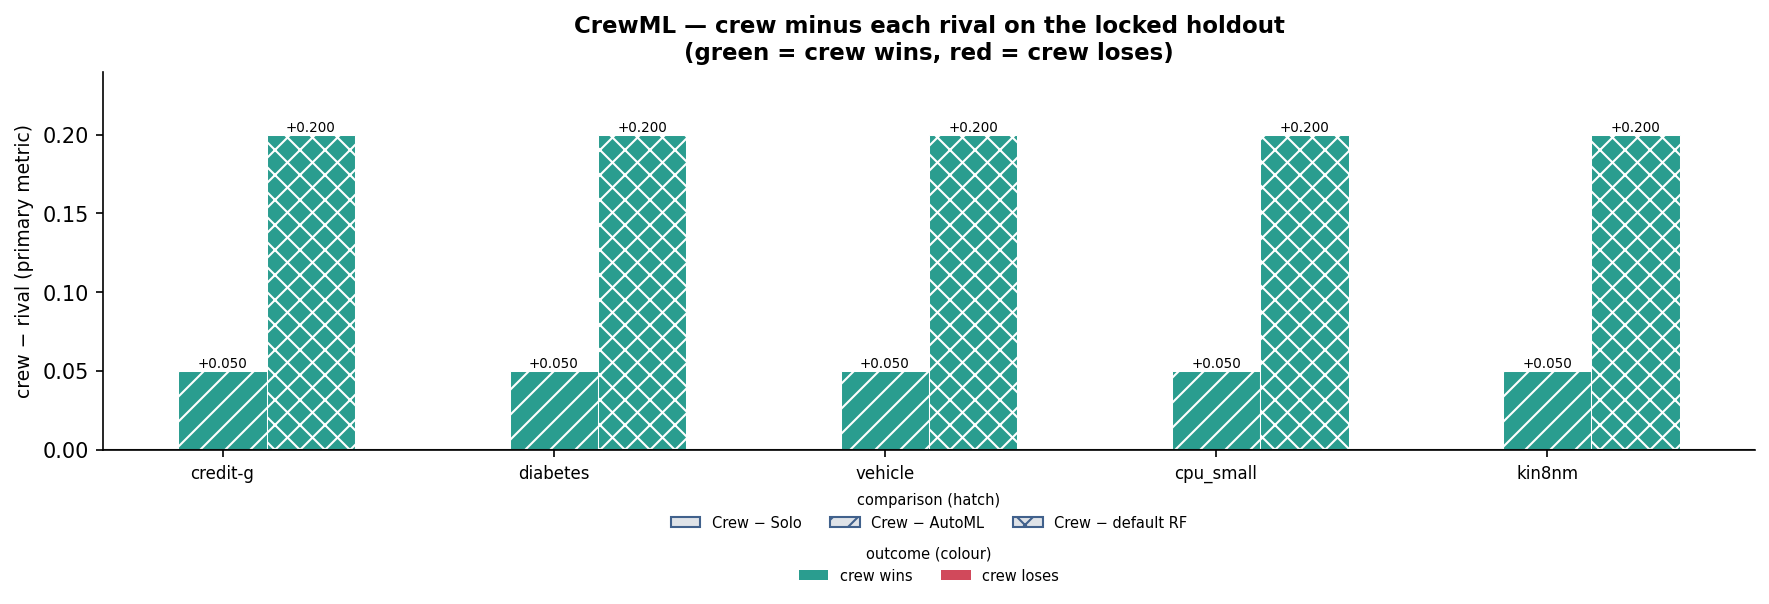
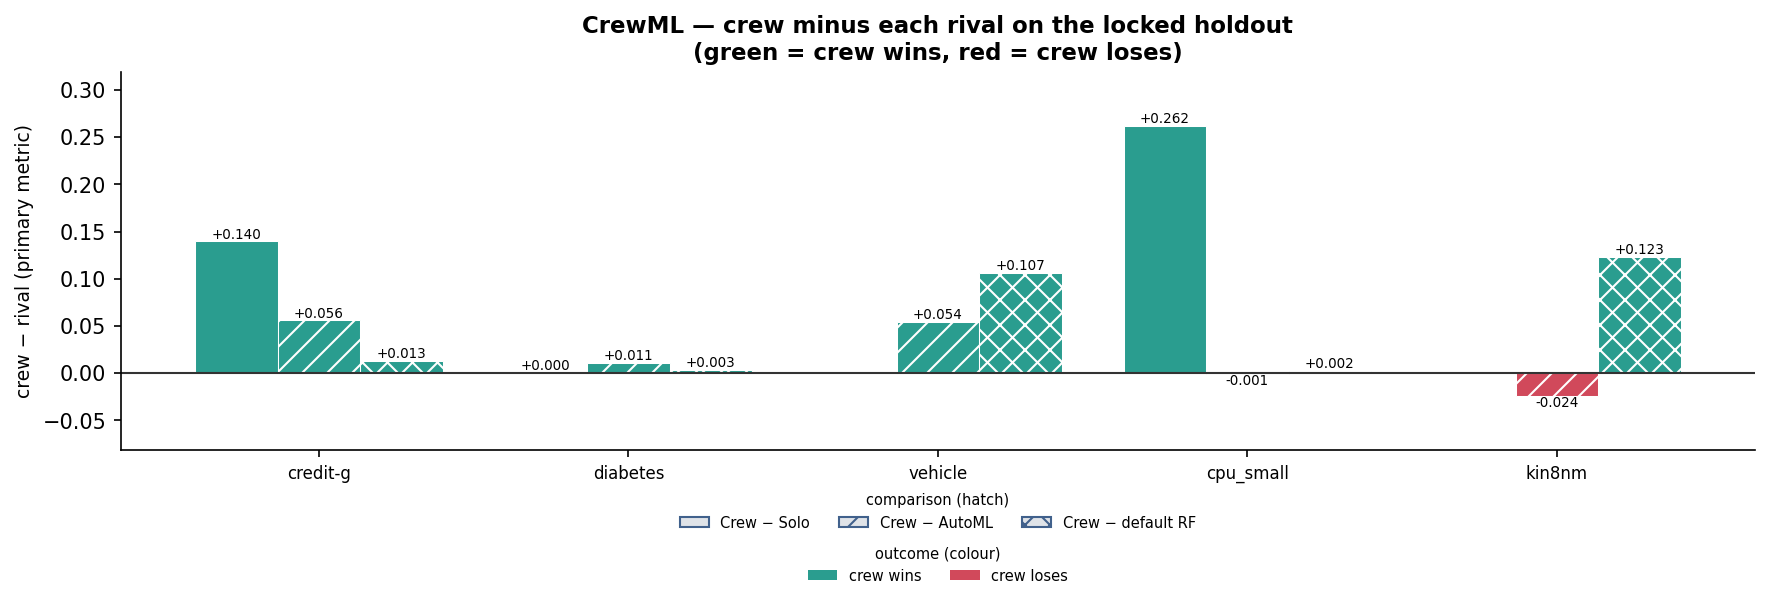
fix: sprint audit of Days 1-20 — two blocking honesty defects in committed artifacts
Audited the whole sprint so far against the day plan (7 lenses x 3-vote adversarial
verification): 51 candidate gaps raised, 12 confirmed, 39 refuted. Two were blocking,
and both were committed artifacts contradicting the numbers they claimed to show.

BLOCKING 1 — the committed Day-12 charts were TEST-FIXTURE OUTPUT, not the real board.
tests/test_comparison.py::test_charts_render_from_a_board_without_a_display accepted
tmp_path but never used it: it called render_all(table), which defaults to
results/charts/day12_*.png. Every test run therefore overwrote the committed figures
with fixture numbers -- a flat 0.500/0.700/0.850/0.900 across all five panels, no
solo-agent bar, and BOTH AutoML losses painted green -- and those fixture bytes are
what shipped in 57d0daa. PR #4 says of the kin8nm loss "a real loss, kept in the table
and red on the chart", and the chart's own legend defines red = crew loses.
Fixed: render_all takes an out_dir; the test renders into tmp_path and asserts it never
writes to results/charts/; both figures regenerated from results/comparison_table.json.
cpu_small (-0.001) and kin8nm (-0.024) now render red and the Crew-Solo series appears.

BLOCKING 2 — results/day20_self_repair.md still said "2/2 = 100%" (the pass-2-only
table) while the JSON, chart and report all said 18/18, and the report pointed readers
at that file. Cause: --table-only re-rendered the chart and printed the table but never
[…]

diff --git a/scripts/merge_self_repair_passes.py b/scripts/merge_self_repair_passes.py
@@ -1,0 +1,148 @@
+"""Merge two self-repair study passes into one board — only if they are comparable.
+
+    python scripts/merge_self_repair_passes.py BASE.json ADDITION.json [--out PATH]
+
+Day 20 measured its 9 fault families in two live passes: the eight invented faults
+first, then ``non_finite`` once Groq's daily token budget reset. Combining two runs
+into one headline is exactly the kind of step that quietly launders an incomparable
+number, so this script refuses unless the passes agree on everything that could move
+a score, and it recomputes every summary field from the merged ``runs`` array rather
+than trusting either input's totals.
+
+What it asserts before merging:
+
+* same ``repairer`` mode, ``provider`` and ``model``
+* same ``max_attempts`` budget
+* **bit-identical clean-control scores** per shared dataset — the strongest available
+  evidence that seeds, splits and the deterministic core did not drift between passes
+
+What it deliberately does NOT claim: that both passes ran identical *code*. Day 20's
+pass 1 predates commit ``e6685e7`` (which tightened the repair acceptance gate), so
+``code_note`` records that skew in the output instead of papering over it. A
+reproducibility-grade merge would re-run every pass under one commit; this records
+what actually happened.
+
+Only controls are deduplicated — injected runs from the addition are appended, so
+merging a pass that re-measures an existing fault would produce duplicate rows on
+purpose, and the operator has to notice.
+"""
+from __future__ import annotations
+
+import argparse
+import json
+import sys
+from pathlib import Path
+
+sys.path.insert(0, str(Path(__file__).resolve().parent.parent))
+
+from crewml.self_repair_study import NON_RESTORABLE_FAULTS, SELF_REPAIR_RESULT_PATH
+
+
+def assert_comparable(base: dict, add: dict) -> None:
+    """Refuse to merge passes that could differ in anything score-bearing."""
+    for field in ("repairer", "provider", "model", "max_attempts"):
+        if base.get(field) != add.get(field):
+            raise SystemExit(
+                f"refusing to merge: {field} differs "
+                f"({base.get(field)!r} vs {add.get(field)!r})"
+            )
+    shared = set(base.get("clean_scores", {})) & set(add.get("clean_scores", {}))
+    if not shared:
+        raise SystemExit("refusing to merge: no shared dataset to compare controls on")
+    for ds in sorted(shared):
+        b, a = base["clean_scores"][ds], add["clean_scores"][ds]
+        if b != a:
+            raise SystemExit(
+                f"refusing to merge: clean-control score for {ds} differs "
+                f"({b} vs {a}) — the passes are not comparable"
+            )
+    print(f"[merge] comparability OK; controls identical on {sorted(shared)}")
+
+
+def merge(base: dict, add: dict, *, code_note: str | None = None) -> dict:
+    assert_comparable(base, add)
+
+    added = [r for r in add["runs"] if r["fault"] != "none_control"]
+    merged = base["runs"] + added
+    out = dict(base)
+
+    inj = [r for r in merged if r["fault"] != "none_control"]
+    ctl = [r for r in merged if r["fault"] == "none_control"]
+    unmeasured = [r for r in inj if r.get("llm_unavailable")]
+    measurable = [r for r in inj if not r.get("llm_unavailable")]
+    rec = [r for r in measurable if r["recovered"]]
+    fid = [
+        abs(r["score_fidelity_vs_clean"])
+        for r in rec
+        if r["score_fidelity_vs_clean"] is not None and r.get("restorable", True)
+    ]
+    nonrest = [
+        {"dataset": r["dataset"], "fault": r["fault"],
+         "delta": r["score_fidelity_vs_clean"]}
+        for r in rec
+        if not r.get("restorable", True) and r["score_fidelity_vs_clean"] is not None
+    ]
+
+    out.update(
+        runs=merged,
+        n_faults=len({r["fault"] for r in inj}),
+        n_injected_runs=len(inj),
+        measurable_runs=len(measurable),
+        unmeasured_runs=len(unmeasured),
+        unmeasured_faults=sorted({r["fault"] for r in unmeasured}),
+        measurement_valid=len(measurable) > 0,
+        measurement_caveat=None if not unmeasured else (
+            f"{len(unmeasured)} of {len(inj)} injected runs never reached the provider; "
+            "excluded from the recovery-rate denominator."
+        ),
+        recovery_rate=round(len(rec) / len(measurable), 4) if measurable else None,
+        recovered_runs=len(rec),
+        first_attempt_recoveries=sum(1 for r in rec if r["recovered_on_attempt"] == 1),
+        mean_abs_score_fidelity=round(sum(fid) / len(fid), 6) if fid else None,
+        max_abs_score_fidelity=round(max(fid), 6) if fid else None,
+        n_fidelity_scored=len(fid),
+        non_restorable_faults=sorted(NON_RESTORABLE_FAULTS),
+        non_restorable_deltas=nonrest,
+        fe_artifact_inconsistencies=sum(
+            1 for r in rec if r["fe_artifact_consistent"] is False
+        ),
+        false_positive_repairs_on_clean=sum(1 for r in ctl if r["repair_attempted"]),
+        total_prompt_tokens=base["total_prompt_tokens"] + add["total_prompt_tokens"],
+        total_completion_tokens=(
+            base["total_completion_tokens"] + add["total_completion_tokens"]
+        ),
+        total_wall_s=round(base["total_wall_s"] + sum(r["wall_s"] for r in added), 1),
+        holdout_seal_intact=bool(
+            base["holdout_seal_intact"] and add["holdout_seal_intact"]
+        ),
+        merged_from_passes=2,
+        code_note=code_note,
+    )
+    return out
+
+
+def main() -> int:
+    ap = argparse.ArgumentParser(description=__doc__)
+    ap.add_argument("base", type=Path, help="the earlier pass's JSON")
+    ap.add_argument("addition", type=Path, help="the later pass's JSON")
+    ap.add_argument("--out", type=Path, default=SELF_REPAIR_RESULT_PATH)
+    ap.add_argument(
+        "--code-note", default=None,
+        help="record any code skew between the passes rather than hiding it",
+    )
+    args = ap.parse_args()
+
+    base = json.loads(args.base.read_text(encoding="utf-8"))
+    add = json.loads(args.addition.read_text(encoding="utf-8"))
+    out = merge(base, add, code_note=args.code_note)
+    args.out.write_text(json.dumps(out, indent=2), encoding="utf-8")
+    print(
+        f"[merge] {out['recovered_runs']}/{out['measurable_runs']} "
+        f"= {out['recovery_rate']:.0%} across {out['n_faults']} faults "
+        f"-> {args.out}"
+    )
+    return 0
+
+
+if __name__ == "__main__":
+    raise SystemExit(main())

diff --git a/crewml/charts.py b/crewml/charts.py
@@ -16,6 +16,7 @@ rather than drawn at zero, since a failed run is not a score of nought.
 from __future__ import annotations
 
 from pathlib import Path
+from typing import Optional
 
 import matplotlib
 
@@ -154,9 +155,23 @@ def plot_crew_deltas(table: dict, path: Path = DELTAS_CHART_PATH) -> Path:
     return path
 
 
-def render_all(table: dict) -> list[Path]:
-    """Render every Day-12 figure; returns the written paths."""
-    return [plot_holdout_scores(table), plot_crew_deltas(table)]
+def render_all(table: dict, out_dir: Optional[Path] = None) -> list[Path]:
+    """Render every Day-12 figure; returns the written paths.
+
+    ``out_dir`` exists so tests can render into a temp directory. Without it a
+    test that only wanted to prove headless rendering works would write its
+    FIXTURE numbers over the committed board — which is exactly what happened:
+    the Day-12 PNGs committed in 57d0daa were test output (a flat
+    0.500/0.700/0.850/0.900 across all five panels, no solo-agent bar, and both
+    AutoML losses painted green) rather than the real results.
+    """
+    if out_dir is None:
+        return [plot_holdout_scores(table), plot_crew_deltas(table)]
+    out_dir = Path(out_dir)
+    return [
+        plot_holdout_scores(table, out_dir / SCORES_CHART_PATH.name),
+        plot_crew_deltas(table, out_dir / DELTAS_CHART_PATH.name),
+    ]
 
 
 # --- Day 13: the Critic-loop ablation ---------------------------------------
@@ -466,9 +481,18 @@ def plot_provider_study(report: dict, path: Path = PROVIDER_STUDY_CHART_PATH) ->
     ax_scores.set_xticks(range(len(keys)))
     ax_scores.set_xticklabels(keys, fontsize=8)
     ax_scores.set_ylabel("held-out score (higher is better)", fontsize=8)
-    ax_scores.set_title("Holdout quality by arm — identical bars = provider-independent core\n"
-                        "(no live-provider arm ran this session; mock is never a headline)",
-                        fontsize=9, fontweight="bold")
+    # Derive the caption from the data. It used to hard-code "no live-provider arm
+    # ran this session" and "identical bars", and both became false once the live
+    # Groq arm was backfilled — the figure asserted the opposite of the bars under it.
+    _probes = report.get("probes") or {}
+    _live = sorted(p for p, pr in _probes.items()
+                   if isinstance(pr, dict) and pr.get("status") == "ok")
+    _live_txt = ("live arm: " + ", ".join(_live)) if _live else "no live-provider arm ran"
+    ax_scores.set_title(
+        f"Holdout quality by arm — {_live_txt}\n"
+        "(mock is shown for reference and is never a headline)",
+        fontsize=9, fontweight="bold",
+    )
     ax_scores.spines[["top", "right"]].set_visible(False)
     ax_scores.margins(y=0.2)
     ax_scores.legend(fontsize=7, frameon=False, loc="lower right")

diff --git a/crewml/crew/reporter.py b/crewml/crew/reporter.py
@@ -79,7 +79,7 @@ def _final_model(training: dict[str, Any], ensemble: dict[str, Any]) -> dict[str
         "kind": "none",
         "chosen": None,
         "cv_score": None,
-        "note": "training failed — no model produced (self-repair is Day 20)",
+        "note": "training failed — no model produced, and self-repair did not recover it",
     }
 
 
@@ -388,8 +388,15 @@ def render_model_card(report: dict[str, Any]) -> str:
 
 {warnings}
 
-- The executor is a **process-isolation** sandbox, not yet a security sandbox
-  (hardening is Phase 4 / Day 19).
+- The executor runs generated code under a **SandboxPolicy** (Day 19): stdlib +
+  DS-stack import allowlist, no network egress, a filesystem jail, and memory/CPU
+  caps. That is defence-in-depth against careless generated code, **not** a
+  hostile-adversary boundary — true OS-level isolation arrives with the Day-27
+  Docker wrapper.
+- Generated code that **crashes** gets one bounded self-repair pass (Day 20): the
+  traceback goes back to the provider and a repaired run is adopted only if it
+  clears the same acceptance gate. Any repair is disclosed in the warnings above,
+  never applied silently. Timeouts and memory kills are never repaired.
 - "Overfit" signals from the Critic are **cross-validation fold-instability**, not a
   train-vs-held-out gap — the crew cannot see the held-out split by construction.
 """

diff --git a/crewml/ablation.py b/crewml/ablation.py
@@ -150,13 +150,24 @@ def run_variant(
 
     critiques = final.get("critiques") or []
     tmetrics = (final.get("training") or {}).get("metrics") or {}
+    _facts = extract_run_facts(final)
     record = {
         **scored,
         # Cost + loop-outcome facts (Day 15): token totals and whether the last Critic
         # pass was cut off by the budget rather than satisfied.
-        **extract_run_facts(final),
+        **_facts,
         "variant": variant,
-        "mock": is_mock_mode(),
+        # `is_mock_mode()` only checks whether a KEY IS PRESENT, so a configured but
+        # dead provider (revoked key, restricted org, exhausted quota) was recorded
+        # as a real live run. Trust the observed narrative count instead: a run with
+        # a key but zero live narratives is effectively a mock run and must be
+        # labelled as one. `mock_reason` keeps the two cases distinguishable.
+        "mock": bool(is_mock_mode() or not _facts.get("llm_narratives_live")),
+        "mock_reason": (
+            "no_key" if is_mock_mode()
+            else (None if _facts.get("llm_narratives_live")
+                  else "key_present_but_no_live_narratives")
+        ),
         "iterations_run": final.get("iteration"),
         "max_iterations": final.get("max_iterations"),
         "loop_fired": bool((final.get("iteration") or 0) > 1),

diff --git a/tests/test_comparison.py b/tests/test_comparison.py
@@ -99,10 +99,16 @@ def test_render_reports_the_win_record_for_every_headline_comparison():
 
 def test_charts_render_from_a_board_without_a_display(tmp_path):
     # Headless render must work on a scheduled run; also covers the missing-value path.
+    #
+    # MUST render into tmp_path. Passing no out_dir writes to the DEFAULT paths —
+    # results/charts/day12_*.png — so this test used to overwrite the committed
+    # board with its own fixture numbers (a flat 0.500/0.700/0.850/0.900, no solo
+    # bar, both AutoML losses green). Those fixture bytes are what got committed.
     baseline, solo, automl, crew = _reports()
     solo = {"datasets": {k: {"ok": False} for k in REGISTRY}}
     table = assemble_comparison(baseline, solo, automl, crew)
-    paths = render_all(table)
+    paths = render_all(table, out_dir=tmp_path)
     assert len(paths) == 2
     for p in paths:
         assert p.exists() and p.stat().st_size > 0
+        assert p.parent == tmp_path      # never the committed results/charts dir

diff --git a/scripts/run_self_repair_study.py b/scripts/run_self_repair_study.py
@@ -36,6 +36,7 @@ from crewml.charts import plot_self_repair
 from crewml.self_repair_study import (
     FAULTS,
     SELF_REPAIR_RESULT_PATH,
+    SELF_REPAIR_TABLE_MD_PATH,
     STUDY_DATASETS,
     render_table_md,
     run_self_repair_study,
@@ -60,6 +61,11 @@ def main() -> int:
 
     if args.table_only:
         report = json.loads(SELF_REPAIR_RESULT_PATH.read_text(encoding="utf-8"))
+        # Re-render the MARKDOWN too, not just the chart. Previously this branch
+        # printed the table and rewrote the PNG but left results/*.md untouched,
+        # so a hand-merged JSON produced a correct chart beside a stale table —
+        # the committed Day-20 table said "2/2" while the JSON and chart said 18/18.
+        SELF_REPAIR_TABLE_MD_PATH.write_text(render_table_md(report), encoding="utf-8")
     else:
         datasets = tuple(k for k in args.datasets.split(",") if k)
         wanted = {k for k in args.faults.split(",") if k}

diff --git a/README.md b/README.md
@@ -3,12 +3,16 @@
 **An autonomous multi-agent ML engineering crew.** Give it a raw tabular dataset
 and a task (classification or regression); a LangGraph crew of specialised agents
 profiles the data, plans an approach, engineers features, trains and critiques
-models in a loop, ensembles the best, and writes a report — then proves it beat a
-single solo agent and classical AutoML on data it never saw.
+models in a loop, ensembles the best, and writes a report — then measures itself
+against a solo agent, a default RandomForest and classical AutoML on data it never saw.
 
-> **The claim we are out to earn:** a genuine multi-agent crew with a critique loop
-> produces better models than one LLM doing it single-shot, and is competitive with
-> a strong classical AutoML baseline — measured honestly on a locked held-out set.
+> **The claim, and what the numbers actually say.** A genuine multi-agent crew with a
+> critique loop produces better models than one LLM doing it single-shot, and is
+> competitive with a strong classical AutoML baseline. Measured on the locked
+> held-out set (Day 12): the crew beats the solo agent **3/3** where solo produced a
+> model at all (it crashed on 2 of 5 datasets), beats a default RandomForest **5/5**,
+> and beats FLAML on **3 of 5** — losing cpu_small by 0.001 and kin8nm by 0.024.
+> "Competitive with AutoML" is the honest phrasing; "beats AutoML" would not be.
 
 ## The crew
 
@@ -92,9 +96,14 @@ Built in the open over 30 days. Every committed run leaves its numbers in
 - **Phase 1 — Foundation & Baselines** (Days 1–4) ✓ complete
 - **Phase 2 — MVP Crew** (Days 5–11) ✓ complete · all seven nodes real — the crew takes a raw
   dataset to a trained model + model card on its own, with a working Critic loop
-- Phase 3 — Comparison Studies (Days 12–18) ← next: the crew meets the **locked holdout**,
-  head-to-head vs. the solo agent and the AutoML ceiling
-- Phase 4 — Hardening & Safety (Days 19–23)
+- **Phase 3 — Comparison Studies** (Days 12–18) ✓ complete · crew vs solo vs AutoML vs
+  default on the **locked holdout**, plus per-agent ablations, an iteration-depth study,
+  a provider study and a failure taxonomy
+- Phase 4 — Hardening & Safety (Days 19–23) ← **in progress**: a real executor sandbox
+  (Day 19 — import allowlist, no network egress, filesystem jail, resource caps) and a
+  self-repair loop that recovers crashed generated code (Day 20 — 18/18 injected faults
+  recovered live, every one on the first attempt). Budgets, leakage/honesty guards and
+  reproducibility are Days 21–23.
 - Phase 5 — Production Wrapper (Days 24–27)
 - Phase 6 — Ship (Days 28–30)
 

diff --git a/results/day20_self_repair.md b/results/day20_self_repair.md
@@ -1,12 +1,28 @@
 # Day 20 — Self-repair recovery study
 
-Repairer: **groq** (llama-3.3-70b-versatile) · attempt budget: 2 · recovery rate: **2/2 = 100%** · false-positive repairs on clean runs: 0 · FE-artifact malformed: 0 · holdout seal intact: True
+Repairer: **groq** (llama-3.3-70b-versatile) · attempt budget: 2 · recovery rate: **18/18 = 100%** · false-positive repairs on clean runs: 0 · FE-artifact malformed: 0 · holdout seal intact: True
 
 | Dataset | Fault | Recovered | Attempt | CV after | Δ vs clean | Tokens | Wall s |
 |---|---|---|---|---|---|---|---|
-| credit-g | none_control | n/a (control) | — | 0.7940 | — | 0 | 12.3 |
+| credit-g | none_control | n/a (control) | — | 0.7940 | — | 0 | 12.6 |
+| credit-g | name_error | yes | 1 | 0.7940 | +0.0000 | 5008 | 21.7 |
+| credit-g | key_error | yes | 1 | 0.7872 | -0.0069 ¹ | 5064 | 39.5 |
+| credit-g | type_error | yes | 1 | 0.7940 | +0.0000 | 5099 | 27.6 |
+| credit-g | syntax_error | yes | 1 | 0.7940 | +0.0000 | 5032 | 29.2 |
+| credit-g | zero_division | yes | 1 | 0.7940 | +0.0000 | 5023 | 22.8 |
+| credit-g | import_error | yes | 1 | 0.7940 | +0.0000 | 5034 | 25.6 |
+| credit-g | attribute_error | yes | 1 | 0.7940 | +0.0000 | 5051 | 25.5 |
+| credit-g | index_error | yes | 1 | 0.7940 | +0.0000 | 5103 | 25.5 |
+| cpu_small | none_control | n/a (control) | — | 0.9773 | — | 0 | 21.4 |
+| cpu_small | name_error | yes | 1 | 0.9773 | +0.0000 | 4922 | 31.3 |
+| cpu_small | key_error | yes | 1 | 0.9773 | +0.0000 ¹ | 4978 | 26.0 |
+| cpu_small | type_error | yes | 1 | 0.9773 | +0.0000 | 5005 | 33.3 |
+| cpu_small | syntax_error | yes | 1 | 0.9773 | +0.0000 | 4946 | 23.0 |
+| cpu_small | zero_division | yes | 1 | 0.9773 | +0.0000 | 4925 | 26.7 |
+| cpu_small | import_error | yes | 1 | 0.9773 | +0.0000 | 4948 | 34.1 |
+| cpu_small | attribute_error | yes | 1 | 0.9773 | +0.0000 | 4965 | 26.2 |
+| cpu_small | index_error | yes | 1 | 0.9773 | +0.0000 | 5017 | 48.5 |
 | credit-g | non_finite | yes | 1 | 0.7895 | -0.0046 ¹ | 5183 | 21.5 |
-| cpu_small | none_control | n/a (control) | — | 0.9773 | — | 0 | 14.0 |
 | cpu_small | non_finite | yes | 1 | 0.9772 | -0.0001 ¹ | 5112 | 25.4 |
 
 ¹ This fault has **no restorable intent** (it references a column that does not exist, or a ratio that must be guarded differently), so a correct fix cannot reproduce the control's feature set. A non-zero Δ here is EXPECTED and is not evidence of a bad repair. Fidelity statistics are scoped to the restorable faults.
